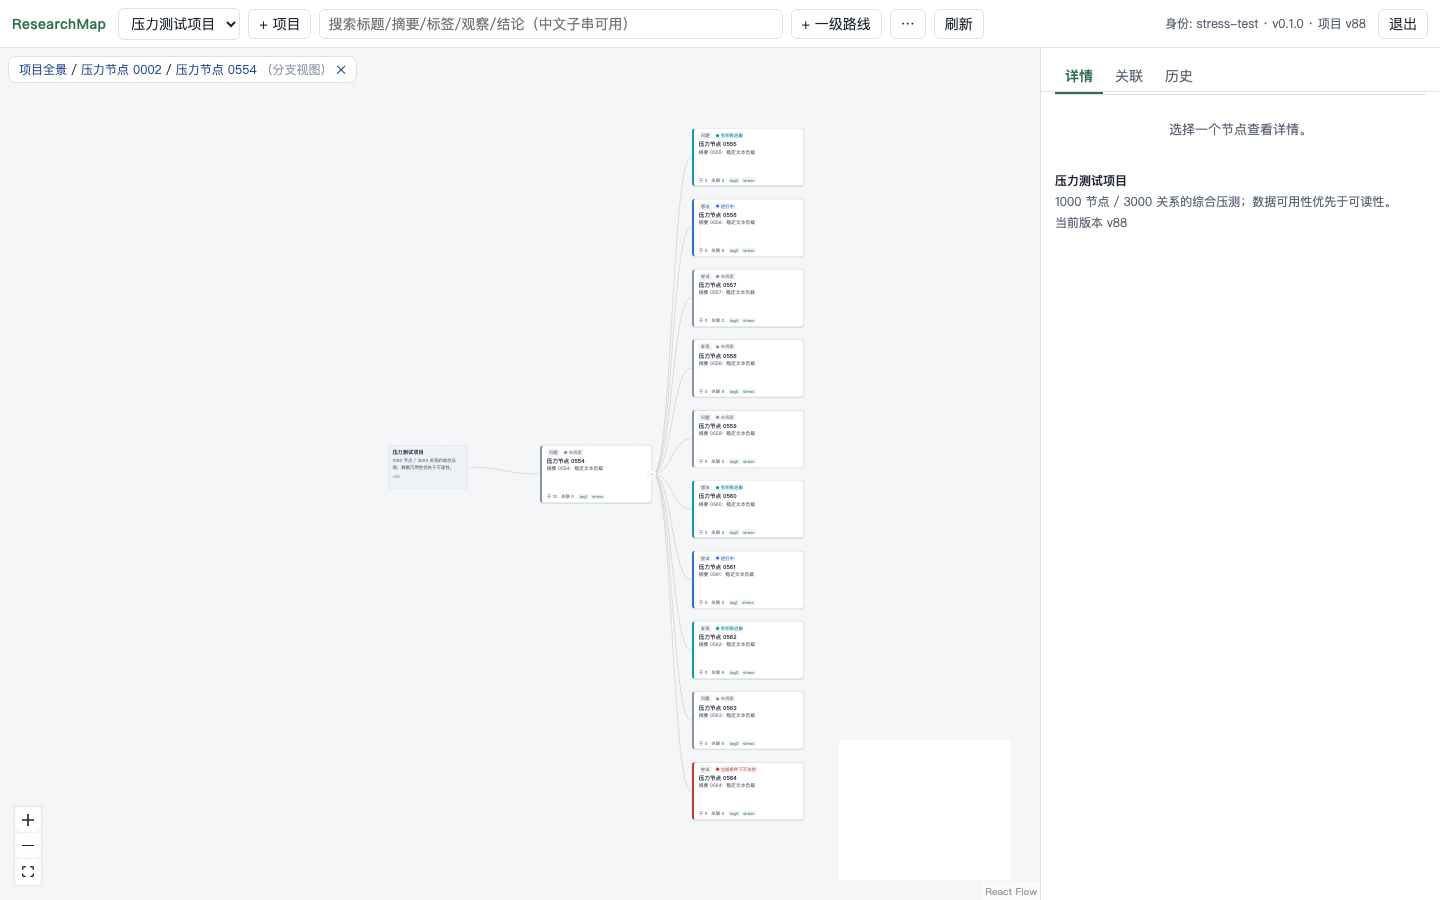
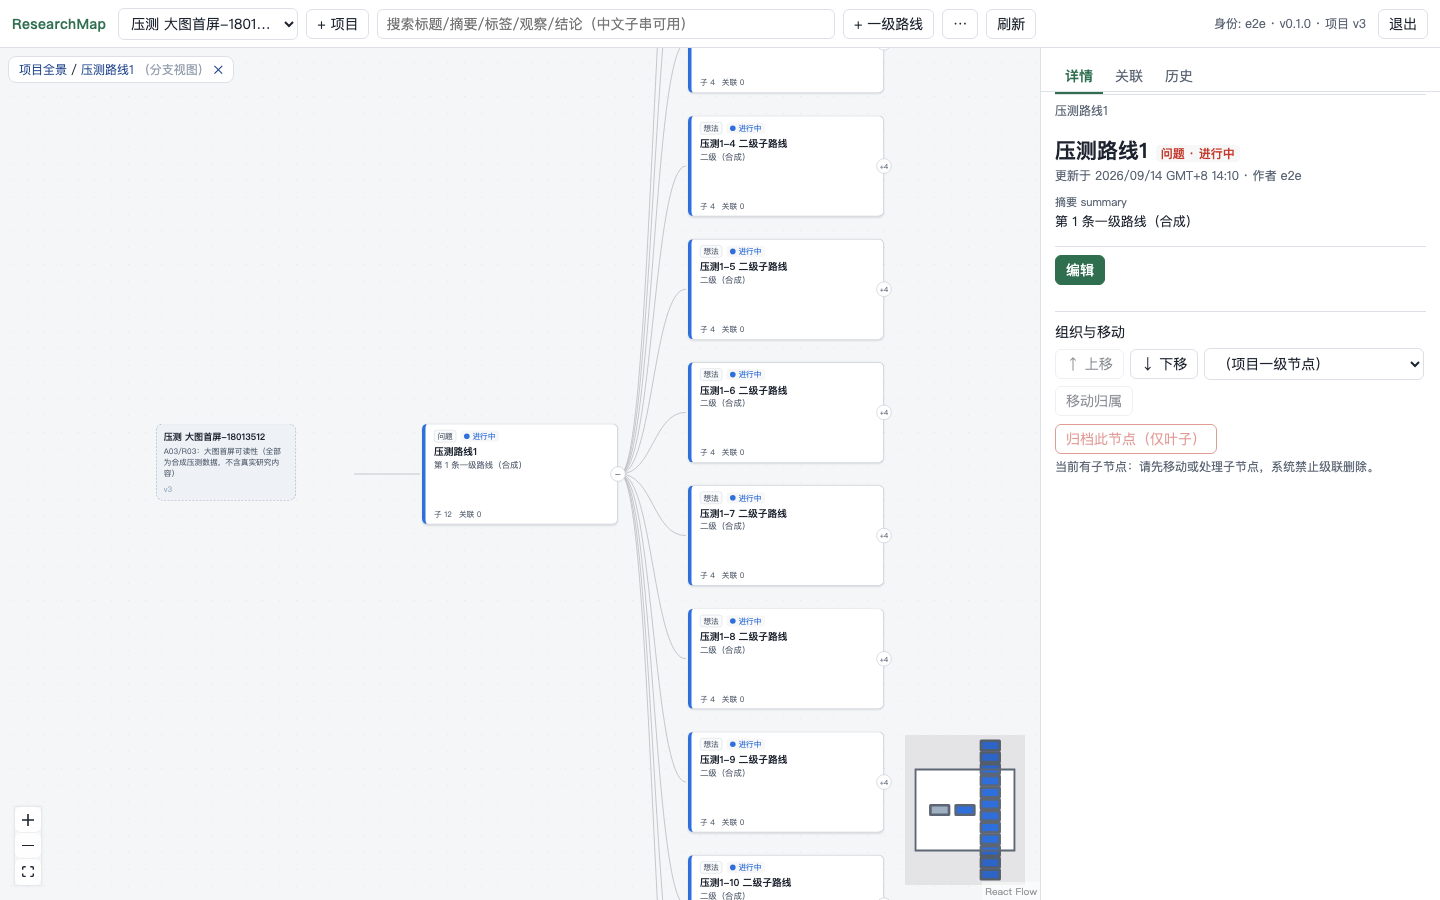
test(e2e): archive/restore roundtrip and a branch-view proof shot (B04/R03)
- collab: browser roundtrip — archive a leaf, watch it leave the canvas,
  find it again through the archived toggle, restore it with a reason, and
  check server state plus history on both ends of the trip. Fails on the
  pre-fix tree at the missing restore control.
- bigmap: fold → "只看这一分支" → "展开此分支", asserting the branch view
  also lands on the readable zoom, and regenerating the evidence shot that
  still showed the rejected round's layout
- evidence/images regenerated by the runs above (synthetic data)

diff --git a/frontend/e2e/bigmap.spec.ts b/frontend/e2e/bigmap.spec.ts
@@ -197,3 +197,69 @@ test("A03/R03 大图首屏：1280×800 同样落在可读缩放上", async ({ pa
   mkdirSync(EVIDENCE_DIR, { recursive: true });
   await page.screenshot({ path: path.join(EVIDENCE_DIR, "a03-firstopen-1280x800.png") });
 });
+
+test("A03/R03 分支视图：折叠→只看这一分支→展开，仍落在可读缩放上", async ({ page }) => {
+  await page.setViewportSize({ width: 1440, height: 900 });
+  const { pid } = await seedBigTree(page);
+  await enterStudio(page, pid);
+
+  const route = () => page.locator(".rm-card", { hasText: "压测路线1" }).first();
+  const cardCount = () => page.locator(".rm-card").count();
+  const total = ROUTES + ROUTES * CHILDREN_PER_ROUTE;
+  expect(await cardCount()).toBe(total);
+
+  const ctxItem = (label: string) => page.locator(".ctx > div", { hasText: label });
+
+  // 首屏相机锚在根卡片上，远处的路线未必在视口内；先用搜索把目标路线定位到屏幕中央，
+  // 这样右键菜单一定作用在可见卡片上。
+  const searchBox = page.getByPlaceholder("搜索标题/摘要/标签/观察/结论（中文子串可用）");
+  await searchBox.fill("压测路线1");
+  await page.locator(".pop-item", { hasText: "压测路线1" }).first().click();
+  await expect(page.locator("h2", { hasText: "压测路线1" }).first()).toBeVisible();
+  await expect(route()).toBeInViewport();
+
+  // 折叠该路线 → 只剩它自己
+  await route().click({ button: "right" });
+  await ctxItem("折叠此分支").click();
+  await expect.poll(cardCount).toBe(total - CHILDREN_PER_ROUTE);
+
+  // 只看这一分支 → 分支视图只剩这一条路线的可见部分
+  await route().click({ button: "right" });
+  await ctxItem("只看这一分支").click();
+  await expect(page.locator(".breadcrumbs")).toContainText("分支视图");
+  await expect.poll(cardCount).toBe(1);
+
+  // 分支视图里展开 → 1 条路线 + 它的全部二级子节点
+  await route().click({ button: "right" });
+  await ctxItem("展开此分支").click();
+  await expect.poll(cardCount).toBe(1 + CHILDREN_PER_ROUTE);
+
+  // 展开后的卡片仍要在可读尺寸上（分支视图与首屏共用同一套缩放心智）
+  const paneBox = (await page.locator(".canvas-wrap").boundingBox())!;
+  let widest = 0;
+  for (let j = 0; j < CHILDREN_PER_ROUTE; j++) {
+    const b = await page
+      .locator(".rm-card", { hasText: `压测1-${j + 1} 二级子路线` })
+      .first()
+      .boundingBox();
+    if (
+      b &&
+      b.x >= paneBox.x &&
+      b.x + b.width <= paneBox.x + paneBox.width + 1 &&
+      b.y >= paneBox.y &&
+      b.y + b.height <= paneBox.y + paneBox.height + 1
+    ) {
+      widest = Math.max(widest, b.width);
+    }
+  }
+  expect(widest, "分支视图里的卡片也要达到可读宽度").toBeGreaterThanOrEqual(MIN_READABLE_CARD_PX);
+
+  mkdirSync(EVIDENCE_DIR, { recursive: true });
+  await page.screenshot({ path: path.join(EVIDENCE_DIR, "a03-branch-expanded-1440x900.png") });
+
+  // 面包屑回项目全景：恢复整棵树。注意"展开此分支"清掉的是共享的折叠状态，
+  // 所以回到全景后这条路线（以及其他从未折叠的路线）的子节点都是可见的。
+  await page.locator(".breadcrumbs a", { hasText: "项目全景" }).click();
+  await expect(page.locator(".breadcrumbs")).toHaveCount(0); // 分支视图已退出
+  await expect.poll(cardCount).toBe(total);
+});
